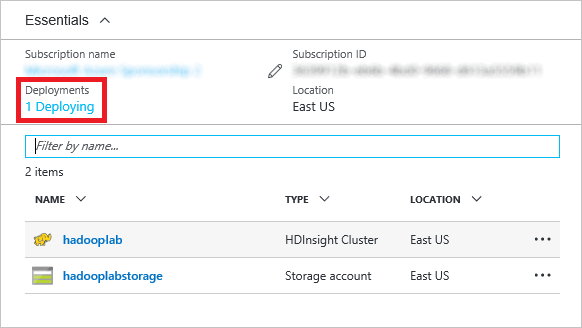
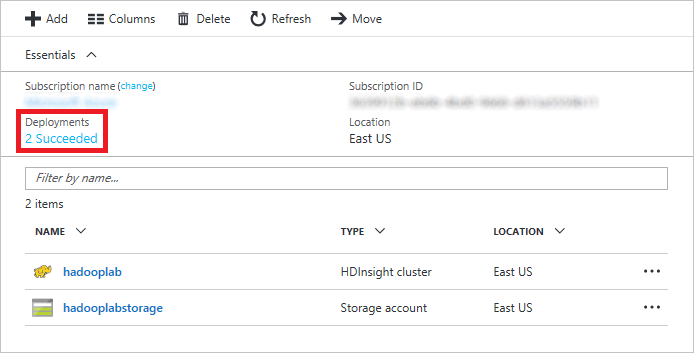
Updated Hadoop lab

diff --git a/Content/HDInsight/HDInsight Hadoop/HDInsight Hadoop HOL.html b/Content/HDInsight/HDInsight Hadoop/HDInsight Hadoop HOL.html
@@ -501,7 +501,7 @@ vertical-align:1px;
 <li><a href="#Exercise2">Exercise 2: Connect to the cluster via SSH</a></li>
 <li><a href="#Exercise3">Exercise 3: Analyze an Apache log file with Hive</a></li>
 <li><a href="#Exercise4">Exercise 4: Use MapReduce to analyze a text file with Python</a></li>
-<li><a href="#Exercise5">Exercise 5: Delete the HDInsight cluster</a></li>
+<li><a href="#Exercise5">Exercise 5: Delete the Hadoop cluster</a></li>
 </ul>
 <p>Estimated time to complete this lab: <strong>45</strong> minutes.</p>
 <p><a name="Exercise1"></a></p>
@@ -517,50 +517,64 @@ vertical-align:1px;
 <p><em>Creating an HDInsight cluster</em></p>
 </li>
 <li>
-<p>In the <strong>Cluster name</strong> box, enter a unique DNS name for the cluster and make sure a green check mark appears next to it indicating that the name is valid and unique.</p>
+<p>In the <strong>Cluster Name</strong> box, enter a unique DNS name for the cluster and make sure a green check mark appears next to it indicating that the name is valid and unique.</p>
 <blockquote>
-<p>In case someone else in the lab selects the same name, try to make it as unique as possible by including birth dates, initials, and anything else you care to add. The name you entered may be unique right now, but it might NOT be unique a few minutes into the deployment.</p>
+<p>In case someone else in the lab selects the same cluster name, make it as unique as possible by including birth dates, initials, and anything else you care to add. The name you entered may be unique right now, but it might NOT be unique a few minutes into the deployment.</p>
 </blockquote>
-<p><a href="Images/cluster-name.png" target="_blank"><img src="Images/cluster-name.png" alt="Specifying the cluster name" style="max-width:100%;"></a></p>
-<p><em>Specifying the cluster name</em></p>
+<p>Enter "Azure4Research!" (without quotation marks) for <strong>Cluster login password</strong>. Select <strong>Create new</strong> under <strong>Resource group</strong> and enter the resource-group name "HadoopLabResourceGroup" (once more, without quotation marks). Select the <strong>Location</strong> nearest you, and then click <strong>Cluster type</strong> to open a "Cluster configuration" blade.</p>
+<p><a href="Images/hadoop-basic.png" target="_blank"><img src="Images/hadoop-basic.png" alt="Entering basic cluster settings" style="max-width:100%;"></a></p>
+<p><em>Entering basic cluster settings</em></p>
 </li>
 <li>
-<p>Click <strong>Cluster configuration</strong>. Then, in the ensuing blade, select <strong>Hadoop</strong> as the <strong>Cluster type</strong> and <strong>Linux</strong> as the <strong>Operating system</strong>, and accept the default version of Hadoop offered to you. Make sure <strong>Standard</strong> is selected as the <strong>Cluster tier</strong>, and finish up by clicking the <strong>Select</strong> button at the bottom of the blade.</p>
-<p><a href="Images/cluster-type.png" target="_blank"><img src="Images/cluster-type.png" alt="Specifying the cluster type" style="max-width:100%;"></a></p>
-<p><em>Specifying the cluster type</em></p>
+<p>Select <strong>Hadoop</strong> as the <strong>Cluster type</strong>. Make sure <strong>Linux</strong> is selected as the <strong>Operating system</strong>, and accept the default Hadoop version on the right. Make sure <strong>Cluster tier</strong> is set to <strong>Standard</strong>. Click the <strong>Select</strong> button at the bottom of the blade, and then finish up by clicking the <strong>Next</strong> button at the bottom of the "Basics" blade.</p>
+<p><a href="Images/hadoop-cluster-configuration.png" target="_blank"><img src="Images/hadoop-cluster-configuration.png" alt="Entering cluster-configuration settings" style="max-width:100%;"></a></p>
+<p><em>Entering cluster-configuration settings</em></p>
 </li>
 <li>
-<p>Click <strong>Applications</strong> and select <strong>StreamSets Data Collector for HI</strong>. Accept the legal terms presented to you, and then click the <strong>Select</strong> button at the bottom of the blade.</p>
-<p><a href="Images/cluster-applications.png" target="_blank"><img src="Images/cluster-applications.png" alt="Specifying the installed applications" style="max-width:100%;"></a></p>
-<p><em>Specifying the installed applications</em></p>
-</li>
-<li>
-<p>Click <strong>Credentials</strong> to open a "Cluster credentials" blade. Leave <strong>Cluster login username</strong> set to "admin" and set the <strong>Cluster login password</strong> to "Had00pdemo!" without quotation marks. (The fourth and fifth characters are zeroes, not capital Os.) Enter "sshuser" (without quotation marks) for the <strong>SSH Username</strong>, make sure <strong>SSH Authentication Type</strong> is set to <strong>PASSWORD</strong>, and enter "Had00pdemo!" (again without quotation marks) again for the <strong>SSH password</strong>. Then click the <strong>Select</strong> button at the bottom of the blade.</p>
-<p><a href="Images/cluster-credentials.png" target="_blank"><img src="Images/cluster-credentials.png" alt="Specifying cluster credentials" style="max-width:100%;"></a></p>
-<p><em>Specifying cluster credentials</em></p>
-</li>
-<li>
-<p>Click <strong>Data source</strong> to open a "Data source" blade. Set <strong>Selection method</strong> to <strong>From all subscriptions</strong> and enter a unique storage-account name in the box below <strong>Create a new Storage account</strong>. (Once more, try to make the name as unique as possible by including birth dates or other values that aren't likely to be used by someone else. You can use lowercase letters, numbers, and hyphens in the storage-account name. Make sure a green check mark appears indicating that the name is valid and unique) For <strong>Default container</strong>, enter "hadoop" (without quotation marks). Select the <strong>Location</strong> nearest you, and then click the <strong>Select</strong> button at the bottom of the blade.</p>
-<p><a href="Images/data-source.png" target="_blank"><img src="Images/data-source.png" alt="Specifying the data source" style="max-width:100%;"></a></p>
-<p><em>Specifying the data source</em></p>
-</li>
-<li>
-<p>Click <strong>Cluster size</strong> to open a "Pricing" blade. Make sure <strong>Number of Worker nodes</strong> is set to <strong>4</strong> and accept the default values everywhere else. Then click the <strong>Select</strong> button at the bottom of the blade.</p>
-<p><a href="Images/cluster-size.png" target="_blank"><img src="Images/cluster-size.png" alt="Specifying the pricing" style="max-width:100%;"></a></p>
-<p><em>Specifying the pricing</em></p>
-</li>
-<li>
-<p>Select <strong>Create new</strong> under <strong>Resource group</strong> and enter "HadoopLabResourceGroup" (without quotation marks) as the resource-group name. Then click the <strong>Create</strong> button at the bottom of the blade to begin deploying the cluster.</p>
-<p><a href="Images/resource-group.png" target="_blank"><img src="Images/resource-group.png" alt="Specifying a resource group and creating the cluster" style="max-width:100%;"></a></p>
-<p><em>Specifying a resource group and creating the cluster</em></p>
-</li>
-<li>
-<p>Deploying an HDInsight cluster can take 20 minutes or more. You can monitor the status of the deployment by opening the resource group's blade. Click <strong>Resource group</strong> in the ribbon on the left side of the portal, and then click the resource group name ("HadoopLabResourceGroup") to open the blade. "Deploying" will change to "Succeeded" when the deployment has completed successfully.</p>
+<p>Make sure <strong>Primary storage type</strong> is set to <strong>Azure Storage</strong> and <strong>Selection method</strong> is set to <strong>My subscriptions</strong>. Then enter a unique storage account name, once more making it as unique as possible by including birth dates or other information. Type "hadooplab" into the <strong>Default container</strong> box, and then click <strong>Next</strong>.</p>
 <blockquote>
-<p>Click the browser's <strong>Refresh</strong> button every few minutes to update the deployment status. Clicking the <strong>Refresh</strong> button in the resource-group blade refreshes the list of resources in the resource group, but does not reliably update the deployment status.</p>
+<p>These settings apply to the storgage account that is provisioned along with the cluster. The storage account contains the cluster's file system and the software installed inside.</p>
 </blockquote>
-<p><a href="Images/deployment-status.png" target="_blank"><img src="Images/deployment-status.png" alt="Checking the deployment" style="max-width:100%;"></a></p>
-<p><em>Monitoring the deployment</em></p>
+<p><a href="Images/hadoop-storage.png" target="_blank"><img src="Images/hadoop-storage.png" alt="Entering cluster-storage settings" style="max-width:100%;"></a></p>
+<p><em>Entering cluster-storage settings</em></p>
+</li>
+<li>
+<p>Click the <strong>Edit</strong> link next to <strong>Applications</strong>.</p>
+<p><a href="Images/hadoop-summary.png" target="_blank"><img src="Images/hadoop-summary.png" alt="Editing installed applications" style="max-width:100%;"></a></p>
+<p><em>Editing installed applications</em></p>
+</li>
+<li>
+<p>Select <strong>StreamSets Data Collector for HI</strong>. Then click <strong>Legal terms</strong> in the "Streamsets Data Collector" blade and the <strong>Purchase</strong> button in the "Purchase" blade. Finish up by clicking <strong>OK</strong> at the bottom of the "Streamsets Data Collector" blade and <strong>Next</strong> at the bottom of the "Applications" blade.</p>
+<p><a href="Images/hadoop-applications.png" target="_blank"><img src="Images/hadoop-applications.png" alt="Installing Streamsets Data Collector" style="max-width:100%;"></a></p>
+<p><em>Installing Streamsets Data Collector</em></p>
+</li>
+<li>
+<p>Click <strong>Next</strong> at the bottom of the "Cluster size" blade. By accepting the defaults, you are deploying a cluster that contains two head nodes and four worker nodes. If you would like to change the number of nodes or the sizes of the nodes, you may do so in this blade.</p>
+<p><a href="Images/hadoop-cluster-size.png" target="_blank"><img src="Images/hadoop-cluster-size.png" alt="Specifying the cluster size" style="max-width:100%;"></a></p>
+<p><em>Specifying the cluster size</em></p>
+</li>
+<li>
+<p>Click <strong>Next</strong> at the bottom of the "Advanced settings" blade.</p>
+<p><a href="Images/hadoop-advanced-settings.png" target="_blank"><img src="Images/hadoop-advanced-settings.png" alt="Specifying advanced settings" style="max-width:100%;"></a></p>
+<p><em>Specifying advanced settings</em></p>
+</li>
+<li>
+<p>Review the cluster settings and make sure everything is correct. Then click <strong>Create</strong> to begin deploying the cluster.</p>
+<p><a href="Images/hadoop-summary-2.png" target="_blank"><img src="Images/hadoop-summary-2.png" alt="Reviewing cluster settings" style="max-width:100%;"></a></p>
+<p><em>Reviewing cluster settings</em></p>
+</li>
+<li>
+<p>Click <strong>Resource groups</strong> in the ribbon on the left side of the portal, and then click the resource group created for the HDInsight cluster.</p>
+<p><a href="Images/open-resource-group.png" target="_blank"><img src="Images/open-resource-group.png" alt="Opening the resource group" style="max-width:100%;"></a></p>
+<p><em>Opening the resource group</em></p>
+</li>
+<li>
+<p>Deploying an HDInsight cluster can take 15 minutes or more. Wait until "Deploying" changes to "Succeeded," indicating that the cluster has been deployed.</p>
+<blockquote>
+<p>Refresh the page in the browser periodically to update the deployment status. Clicking the <strong>Refresh</strong> button in the resource-group blade refreshes the list of resources in the resource group, but does not reliably update the deployment status.</p>
+</blockquote>
+<p><a href="Images/deployment-status.png" target="_blank"><img src="Images/deployment-status.png" alt="Viewing the deployment status" style="max-width:100%;"></a></p>
+<p><em>Viewing the deployment status</em></p>
 </li>
 </ol>
 <p>In this exercise, you learned how to provision an HDInsight Hadoop cluster on Azure, and about some of the options you can choose from when doing so. Wait for the deployment to finish, and then proceed to the next exercise.</p>
@@ -792,25 +806,19 @@ youthful	3
 </ol>
 <p>This exercise showed how to execute streaming MapReduce jobs with HDInsight using a widely used programming language, Python. The next and most important step is to delete the HDInsight cluster so you are not billed for it when it is not being used.</p>
 <p><a name="Exercise5"></a></p>
-<h2>Exercise 5:  Delete the HDInsight cluster</h2>
-<p>As long as the HDInsight clusters you create exist, you are charged for them. Even when the clusters aren't actively processing data, charges are being incurred. Therefore, it behooves you to shut them down when they're no longer needed. Currently, it is not possible to suspend an HDInsight cluster, so your only option is to delete it.</p>
-<p>Thankfully, it is easy to remove an HDInsight cluster. Deleting a resource group deletes everything in that resource group, including HDInsight clusters and accompanying resources. In this exercise, you will delete the HDInsight cluster that you created in Exercise 1.</p>
+<h2>Exercise 5:  Delete the Hadoop cluster</h2>
+<p>When you are finished using an HDInsight Hadoop cluster, you should delete it because you are charged for it while it exists, regardless of whether it's doing any work. In this exercise, you will delete the resource group created in <a href="#Exercise1">Exercise 1</a> when you created the cluster. Deleting the resource group deletes everything in it and prevents any further charges from being incurred for it.</p>
 <ol>
 <li>
-<p>Return to the Azure Portal and click <strong>Resource groups</strong> on the left side of the page. Then click the "HadoopLabResourceGroup" resource group to open it.</p>
-</li>
-<li>
-<p>In the blade for the resource group, click the <strong>Delete</strong> button.</p>
+<p>In the Azure Portal, open the blade for the "HadoopLabResourceGroup" resource group that holds the cluster. Then click the <strong>Delete</strong> button at the top of the blade.</p>
 <p><a href="Images/delete-resource-group.png" target="_blank"><img src="Images/delete-resource-group.png" alt="Deleting a resource group" style="max-width:100%;"></a></p>
 <p><em>Deleting a resource group</em></p>
 </li>
 <li>
-<p>As a safeguard against accidental deletion, you must type the resource group's name to delete it. Type in the name, and then click the <strong>Delete</strong> button at the bottom of the blade.</p>
-<p><a href="Images/confirm-delete-resource-group.png" target="_blank"><img src="Images/confirm-delete-resource-group.png" alt="Confirming deletion of a resource group" style="max-width:100%;"></a></p>
-<p><em>Confirming deletion of a resource group</em></p>
+<p>For safety, you are required to type in the resource group's name. (Once deleted, a resource group cannot be recovered.) Type the name of the resource group. Then click the <strong>Delete</strong> button to remove all traces of this lab from your account.</p>
 </li>
 </ol>
-<p>After 10 minutes or so, the cluster and all of its associated resources will be deleted. Billing stops when you click the <strong>Delete</strong> button, so you're not charged for the time required to delete the cluster. Similarly, bulling doesn't start until a cluster is fully and successfully deployed.</p>
+<p>After a few minutes, the cluster and all of its resources will be deleted. Billing stops when you click the <strong>Delete</strong> button, so you're not charged for the time required to delete the cluster. Similarly, bulling doesn't start until a cluster is fully and successfully deployed.</p>
 <p><a name="Summary"></a></p>
 <h2>Summary</h2>
 <p>Here is a quick summary of what you learned in this lab:</p>

diff --git a/Content/HDInsight/HDInsight Hadoop/HDInsight Hadoop HOL.md b/Content/HDInsight/HDInsight Hadoop/HDInsight Hadoop HOL.md
@@ -40,7 +40,7 @@ This hands-on lab includes the following exercises:
 - [Exercise 2: Connect to the cluster via SSH](#Exercise2)
 - [Exercise 3: Analyze an Apache log file with Hive](#Exercise3)
 - [Exercise 4: Use MapReduce to analyze a text file with Python](#Exercise4)
-- [Exercise 5: Delete the HDInsight cluster](#Exercise5)
+- [Exercise 5: Delete the Hadoop cluster](#Exercise5)
 
 Estimated time to complete this lab: **45** minutes.
 
@@ -57,57 +57,73 @@ In this exercise, you will use the Azure Portal to deploy an HDInsight Hadoop cl
 
     _Creating an HDInsight cluster_
 
-1. In the **Cluster name** box, enter a unique DNS name for the cluster and make sure a green check mark appears next to it indicating that the name is valid and unique.
+1. In the **Cluster Name** box, enter a unique DNS name for the cluster and make sure a green check mark appears next to it indicating that the name is valid and unique.
 
-	> In case someone else in the lab selects the same name, try to make it as unique as possible by including birth dates, initials, and anything else you care to add. The name you entered may be unique right now, but it might NOT be unique a few minutes into the deployment.
+	> In case someone else in the lab selects the same cluster name, make it as unique as possible by including birth dates, initials, and anything else you care to add. The name you entered may be unique right now, but it might NOT be unique a few minutes into the deployment.
 
-    ![Specifying the cluster name](Images/cluster-name.png)
+	Enter "Azure4Research!" (without quotation marks) for **Cluster login password**. Select **Create new** under **Resource group** and enter the resource-group name "HadoopLabResourceGroup" (once more, without quotation marks). Select the **Location** nearest you, and then click **Cluster type** to open a "Cluster configuration" blade.
 
-    _Specifying the cluster name_
+    ![Entering basic cluster settings](Images/hadoop-basic.png)
 
-1. Click **Cluster configuration**. Then, in the ensuing blade, select **Hadoop** as the **Cluster type** and **Linux** as the **Operating system**, and accept the default version of Hadoop offered to you. Make sure **Standard** is selected as the **Cluster tier**, and finish up by clicking the **Select** button at the bottom of the blade.
+    _Entering basic cluster settings_
 
-    ![Specifying the cluster type](Images/cluster-type.png)
+1. Select **Hadoop** as the **Cluster type**. Make sure **Linux** is selected as the **Operating system**, and accept the default Hadoop version on the right. Make sure **Cluster tier** is set to **Standard**. Click the **Select** button at the bottom of the blade, and then finish up by clicking the **Next** button at the bottom of the "Basics" blade.
 
-    _Specifying the cluster type_
+    ![Entering cluster-configuration settings](Images/hadoop-cluster-configuration.png)
 
-1. Click **Applications** and select **StreamSets Data Collector for HI**. Accept the legal terms presented to you, and then click the **Select** button at the bottom of the blade.
+    _Entering cluster-configuration settings_
 
-    ![Specifying the installed applications](Images/cluster-applications.png)
+1. Make sure **Primary storage type** is set to **Azure Storage** and **Selection method** is set to **My subscriptions**. Then enter a unique storage account name, once more making it as unique as possible by including birth dates or other information. Type "hadooplab" into the **Default container** box, and then click **Next**.
 
-    _Specifying the installed applications_
+	> These settings apply to the storgage account that is provisioned along with the cluster. The storage account contains the cluster's file system and the software installed inside.
 
-1. Click **Credentials** to open a "Cluster credentials" blade. Leave **Cluster login username** set to "admin" and set the **Cluster login password** to "Had00pdemo!" without quotation marks. (The fourth and fifth characters are zeroes, not capital Os.) Enter "sshuser" (without quotation marks) for the **SSH Username**, make sure **SSH Authentication Type** is set to **PASSWORD**, and enter "Had00pdemo!" (again without quotation marks) again for the **SSH password**. Then click the **Select** button at the bottom of the blade.
+    ![Entering cluster-storage settings](Images/hadoop-storage.png)
 
-    ![Specifying cluster credentials](Images/cluster-credentials.png)
+    _Entering cluster-storage settings_
 
-    _Specifying cluster credentials_
+1. Click the **Edit** link next to **Applications**.
 
-1. Click **Data source** to open a "Data source" blade. Set **Selection method** to **From all subscriptions** and enter a unique storage-account name in the box below **Create a new Storage account**. (Once more, try to make the name as unique as possible by including birth dates or other values that aren't likely to be used by someone else. You can use lowercase letters, numbers, and hyphens in the storage-account name. Make sure a green check mark appears indicating that the name is valid and unique) For **Default container**, enter "hadoop" (without quotation marks). Select the **Location** nearest you, and then click the **Select** button at the bottom of the blade.
+    ![Editing installed applications](Images/hadoop-summary.png)
 
-    ![Specifying the data source](Images/data-source.png)
+    _Editing installed applications_
 
-    _Specifying the data source_
+1. Select **StreamSets Data Collector for HI**. Then click **Legal terms** in the "Streamsets Data Collector" blade and the **Purchase** button in the "Purchase" blade. Finish up by clicking **OK** at the bottom of the "Streamsets Data Collector" blade and **Next** at the bottom of the "Applications" blade.
 
-1. Click **Cluster size** to open a "Pricing" blade. Make sure **Number of Worker nodes** is set to **4** and accept the default values everywhere else. Then click the **Select** button at the bottom of the blade.
+    ![Installing Streamsets Data Collector](Images/hadoop-applications.png)
 
-    ![Specifying the pricing](Images/cluster-size.png)
+    _Installing Streamsets Data Collector_
 
-    _Specifying the pricing_
+1. Click **Next** at the bottom of the "Cluster size" blade. By accepting the defaults, you are deploying a cluster that contains two head nodes and four worker nodes. If you would like to change the number of nodes or the sizes of the nodes, you may do so in this blade.
 
-1. Select **Create new** under **Resource group** and enter "HadoopLabResourceGroup" (without quotation marks) as the resource-group name. Then click the **Create** button at the bottom of the blade to begin deploying the cluster.
+    ![Specifying the cluster size](Images/hadoop-cluster-size.png)
 
-    ![Specifying a resource group and creating the cluster](Images/resource-group.png)
+    _Specifying the cluster size_
 
-    _Specifying a resource group and creating the cluster_
+1. Click **Next** at the bottom of the "Advanced settings" blade.
 
-1. Deploying an HDInsight cluster can take 20 minutes or more. You can monitor the status of the deployment by opening the resource group's blade. Click **Resource group** in the ribbon on the left side of the portal, and then click the resource group name ("HadoopLabResourceGroup") to open the blade. "Deploying" will change to "Succeeded" when the deployment has completed successfully.
+    ![Specifying advanced settings](Images/hadoop-advanced-settings.png)
 
-	> Click the browser's **Refresh** button every few minutes to update the deployment status. Clicking the **Refresh** button in the resource-group blade refreshes the list of resources in the resource group, but does not reliably update the deployment status.
+    _Specifying advanced settings_
 
-    ![Checking the deployment](Images/deployment-status.png)
+1. Review the cluster settings and make sure everything is correct. Then click **Create** to begin deploying the cluster.
 
-     _Monitoring the deployment_
+    ![Reviewing cluster settings](Images/hadoop-summary-2.png)
+
+    _Reviewing cluster settings_
+
+1. Click **Resource groups** in the ribbon on the left side of the portal, and then click the resource group created for the HDInsight cluster.
+ 
+    ![Opening the resource group](Images/open-resource-group.png)
+
+    _Opening the resource group_
+
+1. Deploying an HDInsight cluster can take 15 minutes or more. Wait until "Deploying" changes to "Succeeded," indicating that the cluster has been deployed.
+
+	> Refresh the page in the browser periodically to update the deployment status. Clicking the **Refresh** button in the resource-group blade refreshes the list of resources in the resource group, but does not reliably update the deployment status.
+
+    ![Viewing the deployment status](Images/deployment-status.png)
+
+    _Viewing the deployment status_
 
 In this exercise, you learned how to provision an HDInsight Hadoop cluster on Azure, and about some of the options you can choose from when doing so. Wait for the deployment to finish, and then proceed to the next exercise.
 
@@ -386,27 +402,19 @@ HDInsight, with its underlying Hadoop implementation, allows you to write MapRed
 This exercise showed how to execute streaming MapReduce jobs with HDInsight using a widely used programming language, Python. The next and most important step is to delete the HDInsight cluster so you are not billed for it when it is not being used.
 
 <a name="Exercise5"></a>
-## Exercise 5:  Delete the HDInsight cluster ##
+## Exercise 5:  Delete the Hadoop cluster ##
 
-As long as the HDInsight clusters you create exist, you are charged for them. Even when the clusters aren't actively processing data, charges are being incurred. Therefore, it behooves you to shut them down when they're no longer needed. Currently, it is not possible to suspend an HDInsight cluster, so your only option is to delete it.
+When you are finished using an HDInsight Hadoop cluster, you should delete it because you are charged for it while it exists, regardless of whether it's doing any work. In this exercise, you will delete the resource group created in [Exercise 1](#Exercise1) when you created the cluster. Deleting the resource group deletes everything in it and prevents any further charges from being incurred for it.
 
-Thankfully, it is easy to remove an HDInsight cluster. Deleting a resource group deletes everything in that resource group, including HDInsight clusters and accompanying resources. In this exercise, you will delete the HDInsight cluster that you created in Exercise 1.
+1. In the Azure Portal, open the blade for the "HadoopLabResourceGroup" resource group that holds the cluster. Then click the **Delete** button at the top of the blade.
 
-1. Return to the Azure Portal and click **Resource groups** on the left side of the page. Then click the "HadoopLabResourceGroup" resource group to open it.
+	![Deleting a resource group](Images/delete-resource-group.png)
 
-1. In the blade for the resource group, click the **Delete** button.
+	_Deleting a resource group_
 
-    ![Deleting a resource group](Images/delete-resource-group.png)
+1. For safety, you are required to type in the resource group's name. (Once deleted, a resource group cannot be recovered.) Type the name of the resource group. Then click the **Delete** button to remove all traces of this lab from your account.
 
-    _Deleting a resource group_  
-
-1. As a safeguard against accidental deletion, you must type the resource group's name to delete it. Type in the name, and then click the **Delete** button at the bottom of the blade.
-
-    ![Confirming deletion of a resource group](Images/confirm-delete-resource-group.png)
-
-    _Confirming deletion of a resource group_  
-
-After 10 minutes or so, the cluster and all of its associated resources will be deleted. Billing stops when you click the **Delete** button, so you're not charged for the time required to delete the cluster. Similarly, bulling doesn't start until a cluster is fully and successfully deployed.
+After a few minutes, the cluster and all of its resources will be deleted. Billing stops when you click the **Delete** button, so you're not charged for the time required to delete the cluster. Similarly, bulling doesn't start until a cluster is fully and successfully deployed.
 
 <a name="Summary"></a>
 ## Summary ##
